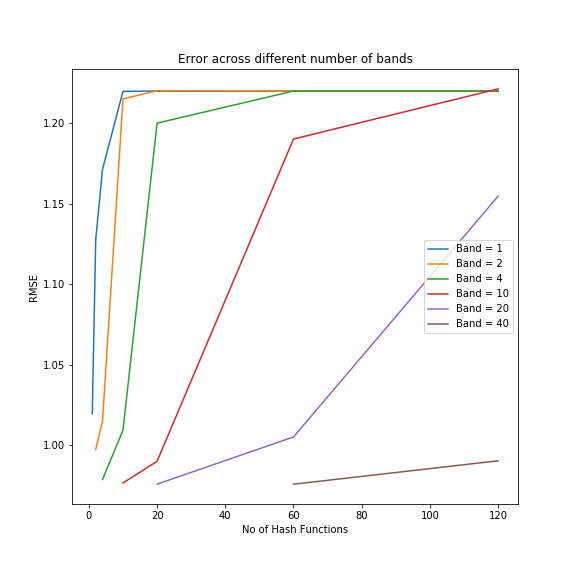
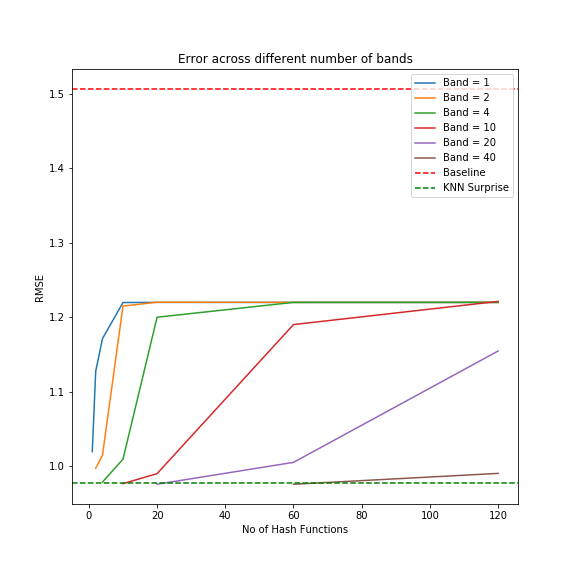
Modified the readme file and updated the plots

diff --git a/k_NN.py b/k_NN.py
@@ -1,6 +1,7 @@
 import surprise
 import pandas as pd
 import time
+import os
 import pickle
 
 
@@ -9,24 +10,30 @@ df = pd.read_csv(train_path)
 reader = surprise.Reader(rating_scale=(1, 5))
 data = surprise.Dataset.load_from_df(df[['UserID', 'MovieID', 'Rating']], reader)
 trainset = data.build_full_trainset()
-sim_options = {'name': 'msd'}
-
-model = surprise.KNNBasic(sim_options=sim_options)
+sim_options = {'name': 'cosine'}
+model1 = surprise.KNNBasic(sim_options=sim_options)
+model2 = surprise.prediction_algorithms.random_pred.NormalPredictor()
 t1 = time.time()
-model.fit(trainset)
+model1.fit(trainset)
+model2.fit(trainset)
 t2 = time.time()
 
 print(t2 - t1)
-with open("Data/time_surprise.txt", "wb") as f:
-    pickle.dump([t2-t1], f)
+if not (os.path.isfile('Data/time_surprise.txt')):
+    with open("Data/time_surprise.txt", "wb") as f:
+        pickle.dump([t2-t1], f)
 
-exit(0)
 test_path = 'Data/test.csv'
 df = pd.read_csv(test_path)
 test_data = surprise.Dataset.load_from_df(df[['UserID', 'MovieID', 'Rating']], reader)\
     .build_full_trainset().build_testset()
-predictions = model.test(test_data)
+predictions1 = model1.test(test_data)
+predictions2 = model2.test(test_data)
 
-print(surprise.accuracy.rmse(predictions))
+print(surprise.accuracy.rmse(predictions1))
+print(surprise.accuracy.rmse(predictions2))
 
-## 0.9969192445535927
+rmse_values = [surprise.accuracy.rmse(predictions1), surprise.accuracy.rmse(predictions2)]
+if not (os.path.isfile('Data/knn_rmse.txt')):
+    with open("Data/knn_rmse.txt", "wb") as f:
+        pickle.dump(rmse_values, f)

diff --git a/create_test_train.py b/create_test_train.py
@@ -5,7 +5,7 @@ import random
 Splitting the data in a 80:20 ratio
 '''
 
-ratio = 0.8
+ratio = 0.1
 path = 'Data/ratings.csv'
 
 df = pd.read_csv(path)
@@ -19,7 +19,7 @@ train = df.iloc[randomList]
 other_indices = df.index.isin(randomList)
 test = df[~other_indices]
 
-train.to_csv('Data/train.csv', index=False)
-test.to_csv('Data/test.csv', index=False)
+train.to_csv('Data/train_small.csv', index=False)
+test.to_csv('Data/test_small.csv', index=False)
 
 

diff --git a/ANN.md b/ANN.md
@@ -20,6 +20,8 @@
 
 Both the above cases can be implemented when the model is run in production and needs to be updated regularly. That would allow us to learn about these users as they start exploring the platform. 
 
+The total number of such cases in the test data was 2% and should not reflect on the accuracy of the model. 
+
 ## Parameters of the Model
 - h - Number of hashing functions
 - b - Number of Bands 
@@ -34,6 +36,26 @@ The approach in this paper was first to find the no of buckets 2 users collided 
 
 A basic running model using Pandas was implemented which needs to be optimized in Spark. 
 
+## Parameter Tuning and optimal Model 
+Our parameters were tuned in the following [code](check_precision.py) and decided in the [jupyter notebook](ANN_Accuracy_Plots.ipnyb). THe final choice for the parameters are 
+- No of Hash Functions - 120 
+- No of Bands - 40 
+- Similarity Threshold - 0.05
+- Prediction Threshold - 4
+
+Or final model had a RMSE Value of 0.990 and a Precision Value of 0.803
+
+![text](Plots/final_rmse.png)
+
+We can see above that our model is not performing that well when compared with the KNN Model implemented by the surprise package. It performs significantly better than the random model. These 2 modesl were implemented in the following [code](k_NN.py)
+
+Looking at the time 
+
+![text](Plots/avg_time.png)
+
+We see that our code which was implemented form scratch performs better than the code written and optimized by the surprise package. Our code leverages the power of Spark to do that
+
+Implementing the package written in Spark would further speeden up our code. We can conclude that our code is 3 times faster and sacrifices a small bit of accuracy to achieve that. Our model will be able to scale well 
 
 ## Requirements
 ```
